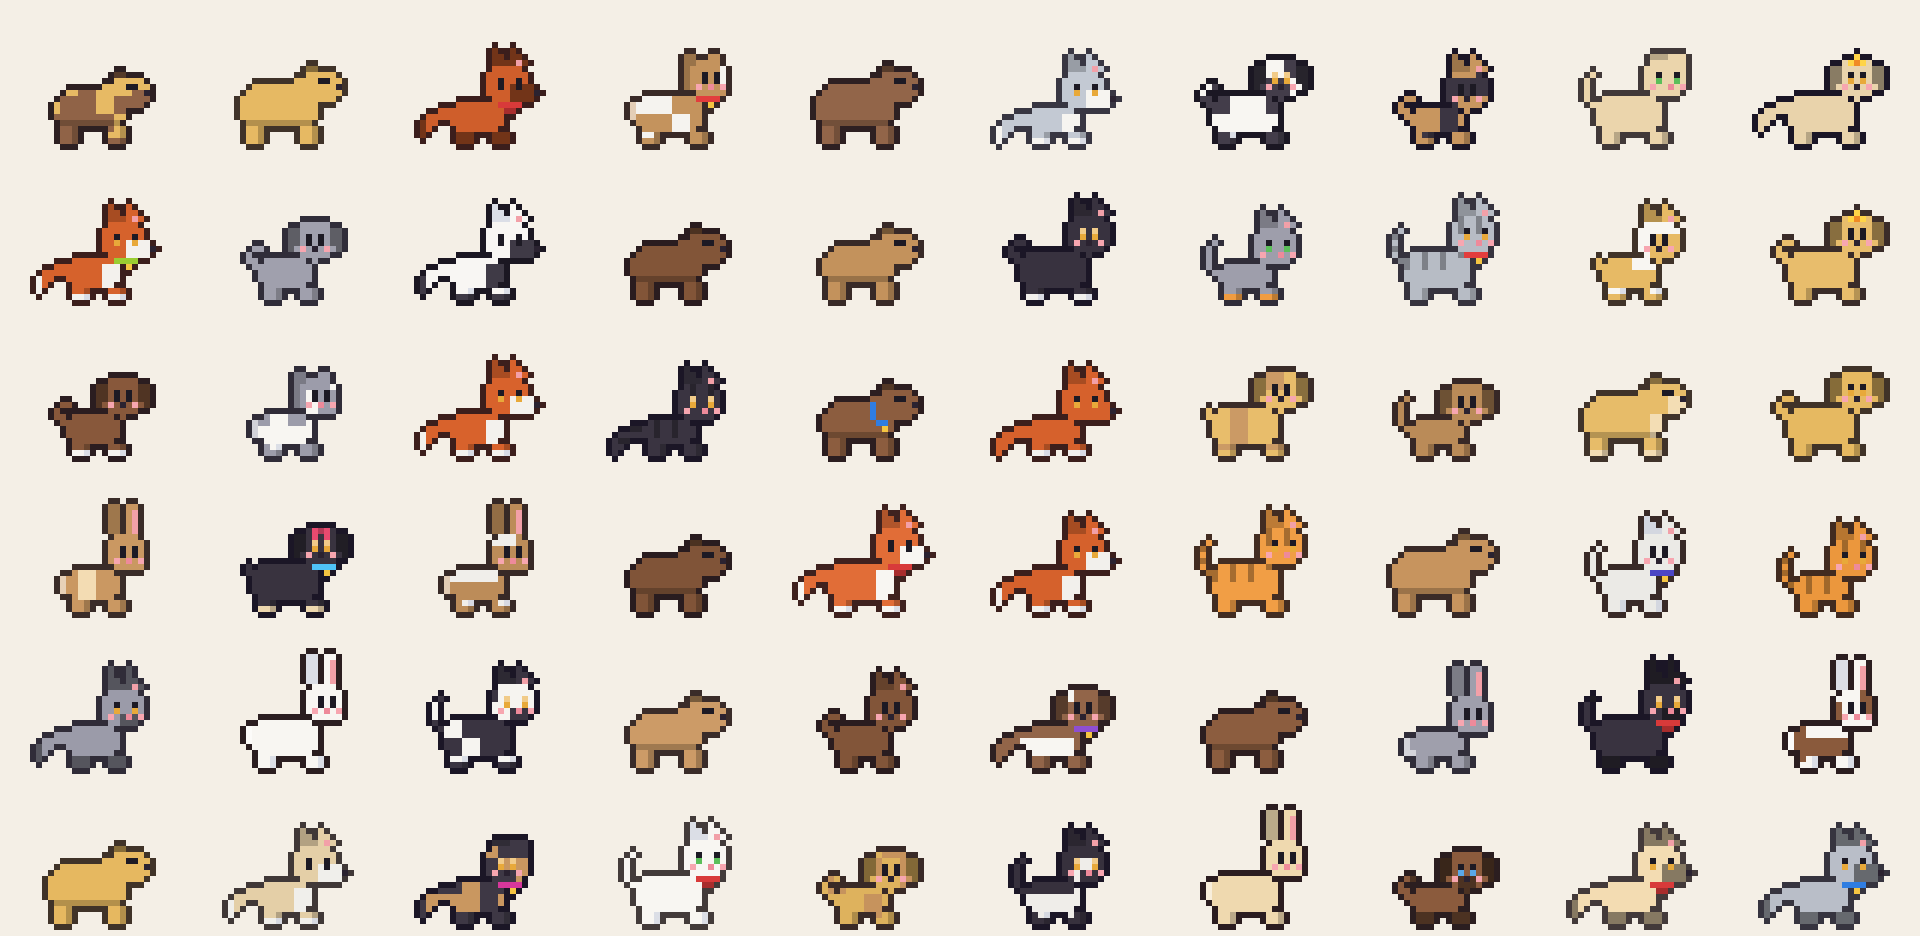
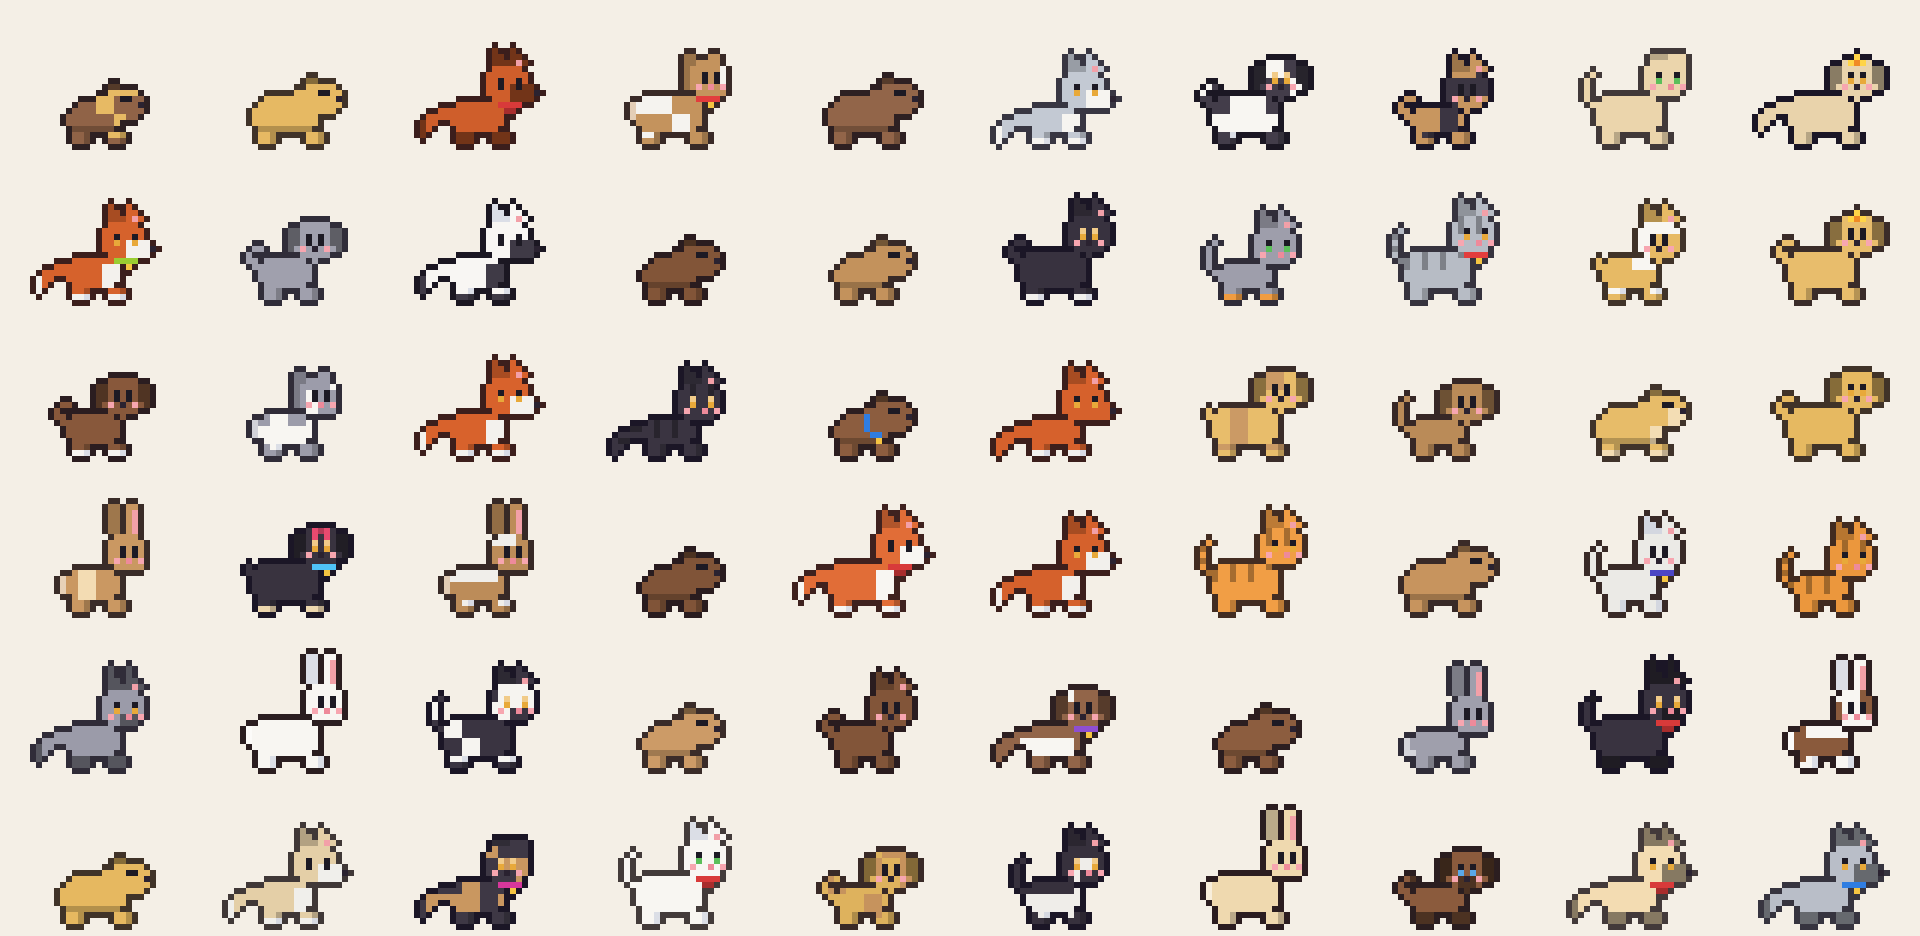
Keep the capybara on the default skeleton, and give it its own bandana
The capybara now uses the same body, legs and sitting/lying shapes as
every other pet. Only its head differs: a little shorter, and carried
forward at shoulder height instead of perched on top of the body. That
replaces the per-species Proportions with one small head(for:) lookup.

A capybara's bandana was drawn along the same line as its stack collar,
in almost the same red, so a pet with a bandana looked stacked. The
bandana is now a small triangle under the chin, and the line behind
the head is used for collars only.

diff --git a/Sources/PRPetsArt/PetSkeleton.swift b/Sources/PRPetsArt/PetSkeleton.swift
@@ -29,11 +29,12 @@ struct PetSkeleton: Sendable {
     static let groundRow = 22
 
     init(species: Species, build: BodyBuild, pose: PetPose) {
-        let shape = Proportions(species: species, build: build)
-        let (bodyX, bodyTop) = (shape.bodyX, shape.bodyTop)
+        let (bodyX, bodyTop) = Self.bodyExtent(for: build)
+        let (headSize, headRise) = Self.head(for: species)
+        self.headSize = headSize
         let ground = Self.groundRow
-        let standingBodyBottom = ground - shape.legLength
-        headSize = shape.headSize
+        let legLength = 2
+        let standingBodyBottom = ground - legLength
 
         switch pose {
         case .stand, .standBlink, .walk1, .walk2, .walk3, .walk4, .run1, .run2, .startle:
@@ -42,9 +43,9 @@ struct PetSkeleton: Sendable {
             let footRow = ground - gait.airborne
             posture = .standing
             body = (bodyX, (bodyTop - gait.lift)...bodyBottom)
-            head = (bodyX.upperBound + shape.headOffset.x, bodyTop + shape.headOffset.y - gait.lift)
-            let backX = bodyX.lowerBound + shape.legInset.back
-            let frontX = bodyX.upperBound - shape.legInset.front
+            head = (bodyX.upperBound - 2, bodyTop - headRise - gait.lift)
+            let backX = bodyX.lowerBound + 1
+            let frontX = bodyX.upperBound - 1
             legs = [
                 Leg(x: backX + 1 + gait.farBack, top: bodyBottom + 1, bottom: footRow, isFarSide: true),
                 Leg(x: frontX + 1 + gait.farFront, top: bodyBottom + 1, bottom: footRow, isFarSide: true),
@@ -57,8 +58,8 @@ struct PetSkeleton: Sendable {
         case .sit, .sitBlink:
             posture = .sitting
             let sitTop = bodyTop - 1
-            body = ((bodyX.lowerBound + shape.sittingInset)...bodyX.upperBound, sitTop...ground)
-            head = (bodyX.upperBound + shape.headOffset.x - 1, sitTop + shape.headOffset.y)
+            body = ((bodyX.lowerBound + 2)...bodyX.upperBound, sitTop...ground)
+            head = (bodyX.upperBound - 3, sitTop - headRise)
             legs = [
                 Leg(x: bodyX.upperBound, top: ground - 2, bottom: ground, isFarSide: true),
                 Leg(x: bodyX.upperBound - 1, top: ground - 2, bottom: ground, isFarSide: false),
@@ -69,9 +70,9 @@ struct PetSkeleton: Sendable {
         case .sleep1, .sleep2:
             posture = .lying
             let breath = pose == .sleep2 ? 1 : 0
-            let lyingTop = ground - shape.lyingDepth - breath
+            let lyingTop = ground - 3 - (bodyTop < 16 ? 1 : 0) - breath
             body = ((bodyX.lowerBound - 1)...(bodyX.upperBound), lyingTop...ground)
-            head = (bodyX.upperBound - 1, ground - shape.headSize.height + 1 - shape.lyingHeadLift)
+            head = (bodyX.upperBound - 1, ground - headSize.height + 1)
             legs = [Leg(x: bodyX.upperBound + 4, top: ground, bottom: ground, isFarSide: false)]
             tailRoot = (bodyX.lowerBound - 1, ground - 1)
             tailSway = 0
@@ -79,42 +80,20 @@ struct PetSkeleton: Sendable {
         }
     }
 
-    /// How a species is put together, standing.
-    private struct Proportions {
-        var bodyX: ClosedRange<Int>
-        var bodyTop: Int
-        var legLength = 2
-        /// How far in from the back and front of the body the legs stand.
-        var legInset = (back: 1, front: 1)
-        /// How much narrower the body gets when sitting, taken off the back.
-        var sittingInset = 2
-        var headSize = (width: 7, height: 6)
-        /// The head's top-left corner, relative to the front of the body and the top of the back.
-        var headOffset = (x: -2, y: -6)
-        /// Rows from the ground to the top of the back when lying down.
-        var lyingDepth: Int
-        /// How far the head rests above the ground when lying down.
-        var lyingHeadLift = 0
+    /// How big a species' head is, and how many rows its top sits above the back.
+    private static func head(for species: Species) -> (size: (width: Int, height: Int), rise: Int) {
+        switch species {
+        // Held forward at shoulder height, rather than perched on top of the body.
+        case .capybara: ((width: 7, height: 5), 2)
+        case .cat, .dog, .bunny, .fox: ((width: 7, height: 6), 6)
+        }
+    }
 
-        init(species: Species, build: BodyBuild) {
-            switch (species, build) {
-            case (.capybara, .chonky): (bodyX, bodyTop) = (7...19, 13)
-            case (.capybara, _): (bodyX, bodyTop) = (8...19, 14)
-            case (_, .slim): (bodyX, bodyTop) = (10...18, 17)
-            case (_, .regular): (bodyX, bodyTop) = (10...18, 16)
-            case (_, .chonky): (bodyX, bodyTop) = (9...19, 15)
-            }
-            lyingDepth = bodyTop < 16 ? 4 : 3
-            if species == .capybara {
-                // A long, flat-backed barrel on longish legs, with a big blocky head held up above the shoulders.
-                legLength = 3
-                legInset = (back: 1, front: 2)
-                sittingInset = 4
-                headSize = (width: 7, height: 5)
-                headOffset = (x: -2, y: -2)
-                lyingDepth = 4
-                lyingHeadLift = 1
-            }
+    private static func bodyExtent(for build: BodyBuild) -> (x: ClosedRange<Int>, top: Int) {
+        switch build {
+        case .slim: (10...18, 17)
+        case .regular: (10...18, 16)
+        case .chonky: (9...19, 15)
         }
     }
 

diff --git a/Sources/PRPetsArt/SpeciesAnatomy.swift b/Sources/PRPetsArt/SpeciesAnatomy.swift
@@ -268,22 +268,16 @@ struct SpeciesAnatomy {
         }
     }
 
-    /// The head hides the front of the neck, so the collar runs down behind it and along under the chin.
+    /// The head hides the front of the neck. A collar runs down behind the head and along under the chin;
+    /// a bandana is just a small triangle hanging under the chin, so the two never look alike.
     private func paintCapybaraNeckwear(on canvas: inout PaintCanvas, adornment: PetAdornment) {
-        let ink: Ink
         if adornment.wearsStackCollar {
-            ink = .collar
-        } else if genome.accessory == .bandana {
-            ink = .accessory
-        } else {
-            return
-        }
-        canvas.fill(x: (headX - 1)...(headX - 1), y: (headY + 2)...headBottom, .chest, ink)
-        canvas.fill(x: headX...(headX + 1), y: (headBottom + 1)...(headBottom + 1), .chest, ink)
-        if adornment.wearsStackCollar {
+            canvas.fill(x: (headX - 1)...(headX - 1), y: (headY + 2)...headBottom, .chest, .collar)
+            canvas.fill(x: headX...(headX + 1), y: (headBottom + 1)...(headBottom + 1), .chest, .collar)
             canvas.paint(headX + 1, headBottom + 2, .chest, .tag)
-        } else {
-            canvas.paint(headX, headBottom + 2, .chest, .accessoryShade)
+        } else if genome.accessory == .bandana {
+            canvas.fill(x: headX...(headX + 2), y: (headBottom + 1)...(headBottom + 1), .chest, .accessory)
+            canvas.paint(headX + 1, headBottom + 2, .chest, .accessoryShade)
         }
     }
 

diff --git a/docs/ARCHITECTURE.md b/docs/ARCHITECTURE.md
@@ -56,7 +56,7 @@ Sprites are drawn in two passes:
 
 Patterns therefore never need to know about poses, and new poses get every pattern for free. Tests check that no frame clips at the edge of its canvas and that grounded poses touch the ground row.
 
-To add a species: add a case to `Species`, give it traits in `SpeciesCatalogue`, then add its head, face, ear and tail shapes in `SpeciesAnatomy`. If it isn't built like a cat or dog, give it its own `Proportions` in `PetSkeleton` (body size, leg length, head size and where the head sits); the capybara is the example. Run `make preview` and look at `previews/species-<name>.png` and `previews/poses-<name>.png`.
+To add a species: add a case to `Species`, give it traits in `SpeciesCatalogue`, then add its head, face, ear and tail shapes in `SpeciesAnatomy`. If it carries its head differently, give it its own head size and height in `PetSkeleton.head(for:)`; the capybara is the example. Run `make preview` and look at `previews/species-<name>.png` and `previews/poses-<name>.png`.
 
 ## The overlay
 
